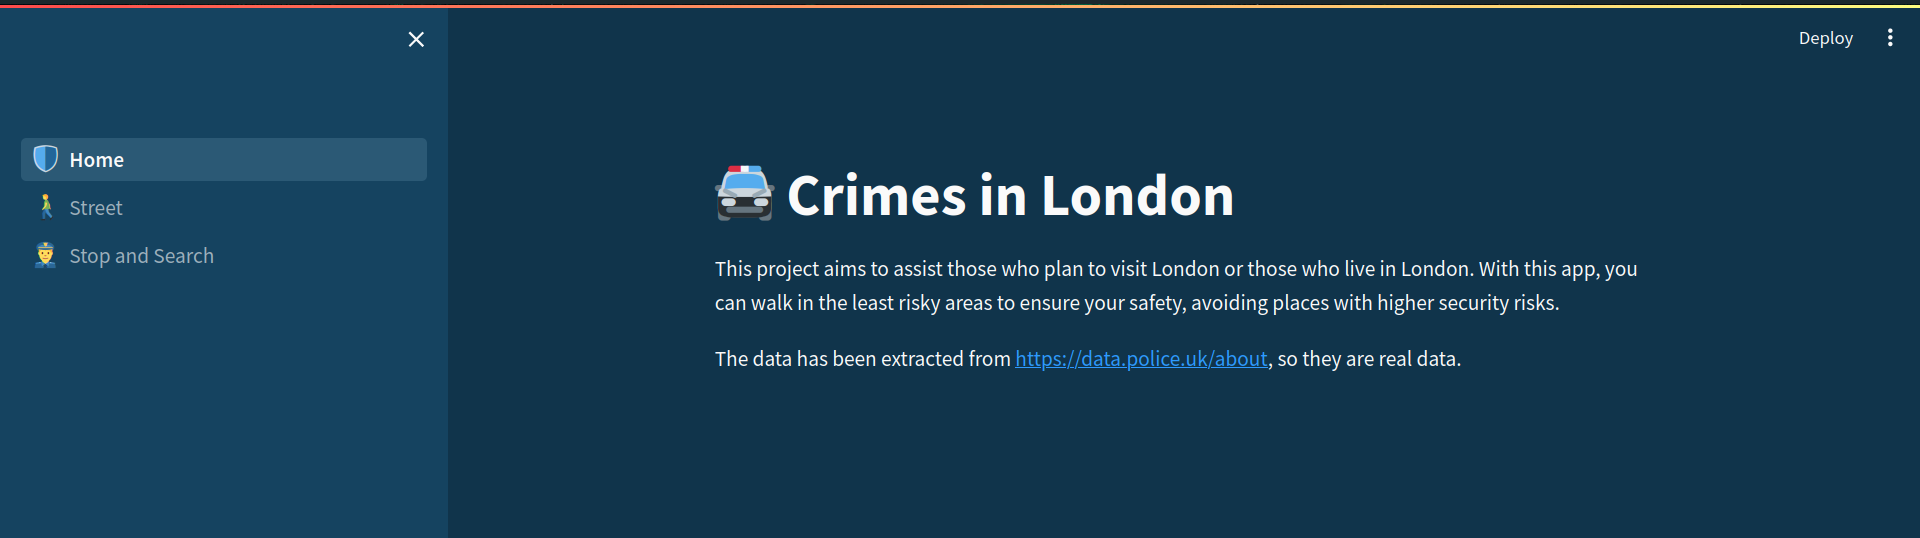
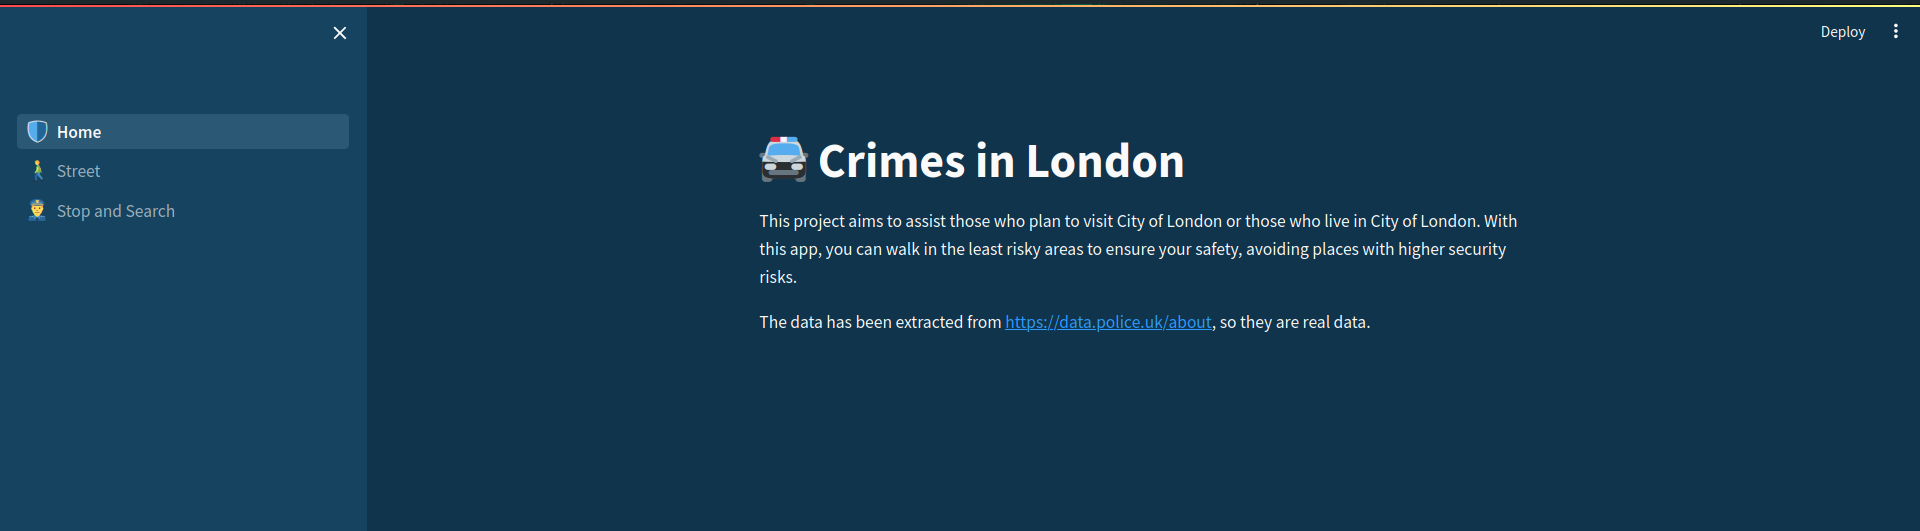
🟢

diff --git a/pages/2_👮♂_Stop_and_Search.py b/pages/2_👮♂_Stop_and_Search.py
@@ -2,14 +2,10 @@ import streamlit as st
 import pandas as pd
 import altair as alt
 
-st.set_page_config(layout="wide")
-
-@st.cache_data()
 def load_data(csv_file):
     df = pd.read_csv(csv_file, sep=';', parse_dates=['date'])
     return df
 
-@st.cache_data()
 def filter_data(df, selected_months):
     if selected_months:
         filtered_df = df[df['date'].dt.strftime('%Y-%m').isin(selected_months)]
@@ -24,21 +20,28 @@ def plot_charts(df):
         color='gender',
         tooltip=[alt.Tooltip('gender', title='Gender'), alt.Tooltip('count()', title='Count')]
     ).properties(
-        width=450,
-        height=300
+        width=350,
+        height=250
     )
-    st.altair_chart(gender_chart)
-
+    
     age_chart = alt.Chart(df.dropna(subset=['age_range'])).mark_bar().encode(
         x='age_range',
         y='count()',
         color='age_range',
         tooltip=[alt.Tooltip('age_range', title='Age Range'), alt.Tooltip('count()', title='Count')]
     ).properties(
-        width=450,
-        height=300
+        width=350,
+        height=250
     )
-    st.altair_chart(age_chart)
+    
+    col1, col2 = st.columns(2)
+    with col1:
+        col1.subheader("Gender")
+        st.altair_chart(gender_chart)
+
+    with col2:
+        col2.subheader("Age Range")
+        st.altair_chart(age_chart)
 
     ethnicity_chart = alt.Chart(df.dropna(subset=['self_defined_ethnicity'])).mark_bar().encode(
         x='self_defined_ethnicity',
@@ -49,6 +52,8 @@ def plot_charts(df):
         width=750,
         height=500
     )
+
+    st.write("### Self Defined Ethnicity")
     st.altair_chart(ethnicity_chart)
 
     outcome_chart = alt.Chart(df.dropna(subset=['outcome'])).mark_bar().encode(
@@ -60,10 +65,12 @@ def plot_charts(df):
         width=750,
         height=500
     )
-    st.altair_chart(outcome_chart)
+
+    st.write("### Outcome")
+    st.altair_chart(outcome_chart)    
 
 def main():
-    st.write("# :cop: Individual stop and search records")
+    st.title(":cop: Individual stop and search records")
 
     csv_file = "data/stop_and_search.csv"
     df = load_data(csv_file)

diff --git a/🛡_Home.py b/🛡_Home.py
@@ -10,7 +10,7 @@ st.set_page_config(
 st.write("# :oncoming_police_car: Crimes in London")
 
 st.markdown(
-    """This project aims to assist those who plan to visit London or those who live in London. With this app, you can walk in the least risky areas to ensure your safety, avoiding places with higher security risks.
+    """This project aims to assist those who plan to visit City of London or those who live in City of London. With this app, you can walk in the least risky areas to ensure your safety, avoiding places with higher security risks.
 
 The data has been extracted from [https://data.police.uk/about](https://data.police.uk/about), so they are real data.
 """
